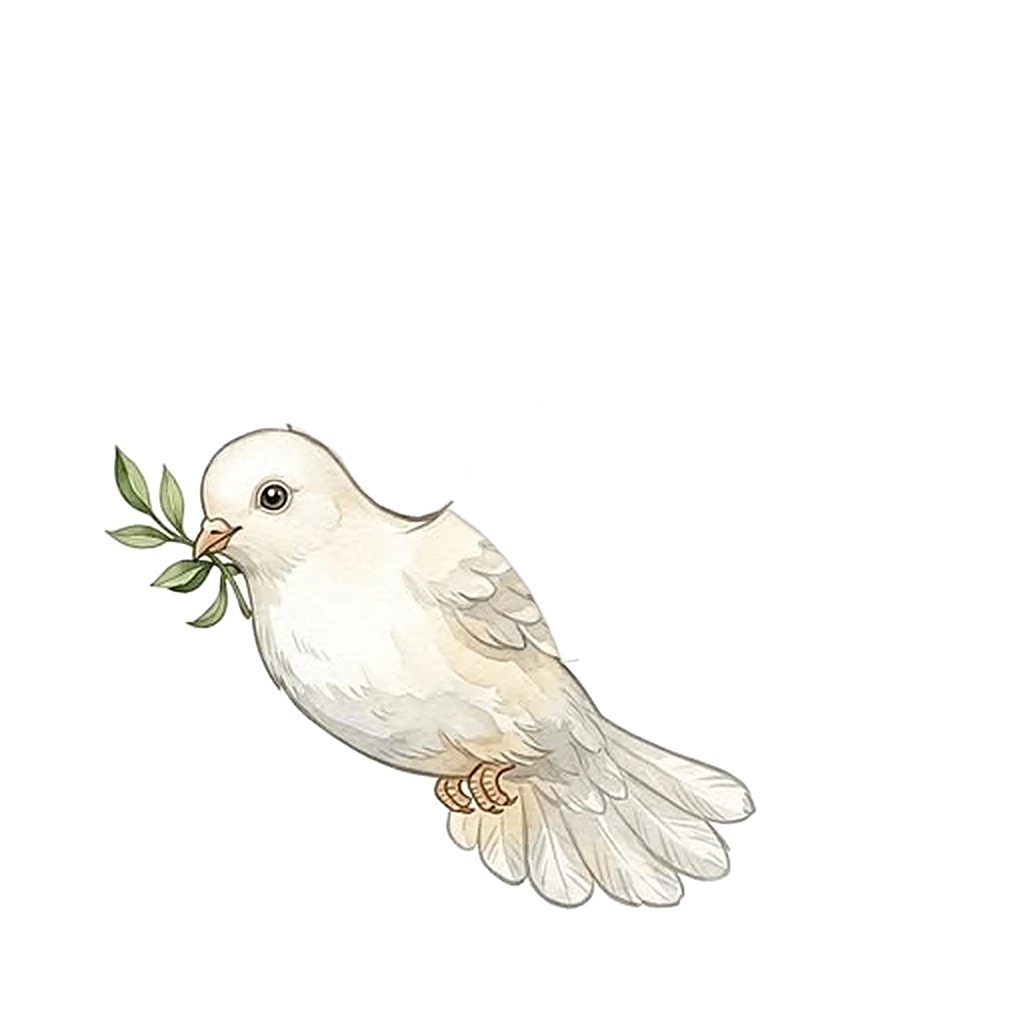
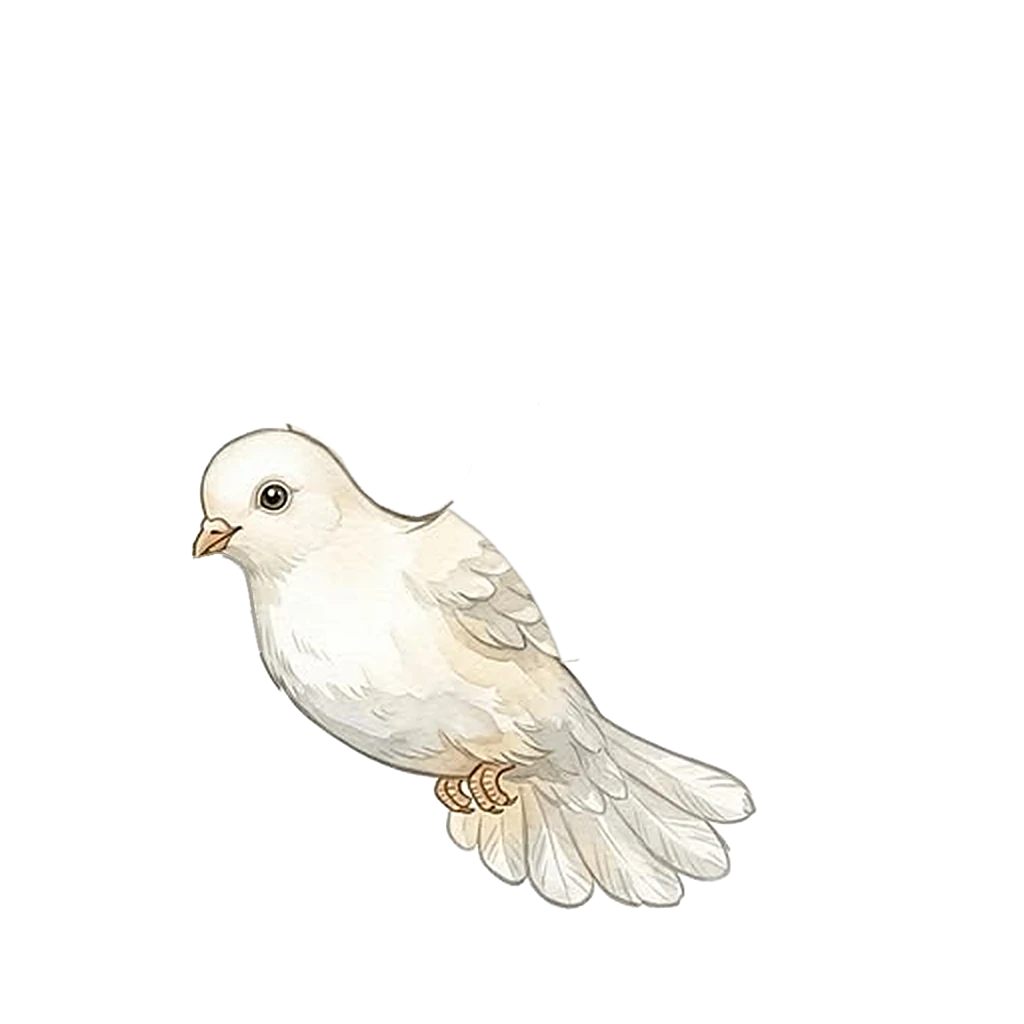
Let the dove grip the card in its feet
Paint the olive branch out of the dove illustration and carry the card
by its top edge instead of a ribbon, so the bird sits centred above the
card. Remove the ribbon, bow and knots.

Changed region(s): [[0.0938, 0.4375, 0.25, 0.625]]

diff --git a/src/components/scratch/DoveDelivery.js b/src/components/scratch/DoveDelivery.js
@@ -59,40 +59,9 @@ function Dove({ effort, flying, onPrepared }) {
   return <canvas ref={canvas} className={styles.doveCanvas} aria-hidden="true" />;
 }
 
-/** Gold satin ribbon from the dove's beak down to the card's top corners. */
-function Ribbon() {
-  return (
-    <svg className={styles.ribbon} viewBox="0 0 100 100" preserveAspectRatio="none" aria-hidden="true">
-      <path className={styles.ribbonEdge} d="M7 100L50 0l43 100" />
-      <path className={styles.ribbonSheen} d="M7 100L50 0l43 100" />
-    </svg>
-  );
-}
-
-function Bow() {
-  return (
-    <svg className={styles.bow} viewBox="0 0 64 44" aria-hidden="true">
-      <defs>
-        <linearGradient id="bow-satin" x1="0" y1="0" x2="1" y2="1">
-          <stop offset="0" stopColor="#f1e2b6" />
-          <stop offset="0.5" stopColor="#d2b163" />
-          <stop offset="1" stopColor="#a98438" />
-        </linearGradient>
-      </defs>
-      <g fill="url(#bow-satin)" stroke="#94722c" strokeWidth="0.8" strokeLinejoin="round">
-        <path d="M30 15 19 41l6-3 3 5 5-26z" />
-        <path d="m34 15 11 26-6-3-3 5-5-26z" />
-        <path d="M30 13C22 3 7 1 5 8s13 12 25 8z" />
-        <path d="M34 13c8-10 23-12 25-5s-13 12-25 8z" />
-        <rect x="27.5" y="10" width="9" height="9" rx="3" />
-      </g>
-    </svg>
-  );
-}
-
 /**
- * Wraps the scratch card: when it scrolls into view, a dove flies in holding
- * the card by a ribbon, sets it down, lets go and flies away. `children` is a
+ * Wraps the scratch card: when it scrolls into view, a dove flies in gripping
+ * the card in its feet, sets it down, lets go and flies away. `children` is a
  * render function receiving `ready` (true once the card has landed).
  */
 export default function DoveDelivery({ children }) {
@@ -113,11 +82,11 @@ export default function DoveDelivery({ children }) {
   // Arrives from the distance, growing as it comes.
   const scale = useTransform(progress, [0, 1], [0.8, 1]);
   // Negative tips the beak down. It flares nose-up just before setting the card down.
-  const pitch = useTransform(progress, [0, 0.3, 0.65, 0.88, 1], [-22, -13, -6, 6, 0]);
+  const pitch = useTransform(progress, [0, 0.3, 0.65, 0.88, 1], [-16, -10, -4, 5, 0]);
   // Flaps in, glides, then beats hard to brake.
   const effort = useTransform(progress, [0, 0.45, 0.6, 0.8, 0.92, 1], [1, 1, 0.1, 0.1, 0.9, 1]);
-  // The card trails behind the bird like a pendulum, settling as it lands.
-  const swing = useTransform(progress, (p) => -15 * (1 - p) ** 1.4 * Math.cos(p * Math.PI * 3.2));
+  // The card sways from the dove's feet, settling as it lands.
+  const swing = useTransform(progress, (p) => -9 * (1 - p) ** 1.4 * Math.cos(p * Math.PI * 3.2));
 
   useEffect(() => {
     if (reduced) {
@@ -165,7 +134,7 @@ export default function DoveDelivery({ children }) {
               landed
                 ? {
                     x: ['0vw', '1vw', '-11vw', '-62vw'],
-                    y: ['0vh', '1vh', '-8vh', '-72vh'],
+                    y: ['0vh', '-1vh', '-9vh', '-72vh'],
                     rotate: [0, -3, 10, 18],
                     scale: [1, 1, 0.94, 0.68],
                     opacity: [1, 1, 1, 0],
@@ -186,19 +155,6 @@ export default function DoveDelivery({ children }) {
         )}
 
         <motion.div className={styles.hanging} style={{ rotate: swing }}>
-          {airborne && (
-            <motion.div
-              className={styles.ribbonWrap}
-              initial={false}
-              animate={landed ? { opacity: 0, y: 16 } : { opacity: 1, y: 0 }}
-              transition={{ duration: 0.6, delay: landed ? LEAVE_DELAY + 0.1 : 0, ease: 'easeIn' }}
-            >
-              <Ribbon />
-              <Bow />
-              <span className={`${styles.knot} ${styles.knotLeft}`} />
-              <span className={`${styles.knot} ${styles.knotRight}`} />
-            </motion.div>
-          )}
           {children(landed || phase === 'done')}
         </motion.div>
       </motion.div>

diff --git a/src/components/scratch/DoveDelivery.module.css b/src/components/scratch/DoveDelivery.module.css
@@ -1,94 +1,29 @@
 .delivery {
-  --ribbon: clamp(62px, 8vw, 92px);
   --dove: clamp(190px, 25vw, 320px);
+  /* room above the card for the dove as it arrives */
+  --lift: calc(var(--dove) * 0.55);
   position: relative;
   /* Holds the dove below the section title, even once the card stops moving. */
   isolation: isolate;
-  /* room above the card for the ribbon and dove as they arrive */
-  padding-top: calc(var(--ribbon) + var(--dove) * 0.26);
-  margin-top: calc((var(--ribbon) + var(--dove) * 0.26) * -0.7);
+  padding-top: var(--lift);
+  margin-top: calc(var(--lift) * -0.7);
 }
 
 .carrier {
   position: relative;
 }
 
+/* The card sways from the point where the dove grips it. */
 .hanging {
   position: relative;
-  transform-origin: 50% calc(var(--ribbon) * -1);
+  transform-origin: 50% 0;
 }
 
-/* Ribbon spans from the beak (apex) to the card's top corners. */
-.ribbonWrap {
-  position: absolute;
-  left: 50%;
-  top: calc(var(--ribbon) * -1);
-  width: min(100%, 560px);
-  height: var(--ribbon);
-  translate: -50% 0;
-  pointer-events: none;
-}
-
-.ribbon {
-  position: absolute;
-  inset: 0;
-  width: 100%;
-  height: 100%;
-  overflow: visible;
-}
-
-.ribbonEdge,
-.ribbonSheen {
-  fill: none;
-  stroke-linejoin: round;
-  vector-effect: non-scaling-stroke;
-}
-
-.ribbonEdge {
-  stroke: #a98438;
-  stroke-width: 3.2px;
-}
-
-.ribbonSheen {
-  stroke: #efe0b0;
-  stroke-width: 1.1px;
-}
-
-/* The bow's knot sits at the ribbon's apex, under the beak. */
-.bow {
-  position: absolute;
-  left: 50%;
-  top: 0;
-  width: clamp(40px, 5vw, 54px);
-  height: auto;
-  translate: -50% -33%;
-  overflow: visible;
-}
-
-.knot {
-  position: absolute;
-  bottom: -4px;
-  width: 9px;
-  height: 9px;
-  margin-left: -4.5px;
-  border-radius: 50%;
-  background: radial-gradient(circle at 35% 30%, #f1e2b6, #a4843f);
-  box-shadow: 0 1px 2px rgba(53, 43, 43, 0.3);
-}
-
-.knotLeft {
-  left: 7%;
-}
-
-.knotRight {
-  left: 93%;
-}
-
-/* The picture's beak sits on the ribbon's apex, at 21.9% across and 53.5% down. */
+/* The dove's feet sit on the card's top edge, at 46.3% across and 77.3% down the picture. */
 .dove {
   position: absolute;
-  left: calc(50% - var(--dove) * 0.219);
-  top: calc(var(--ribbon) * -1 - var(--dove) * 0.535);
+  left: calc(50% - var(--dove) * 0.463);
+  top: calc(var(--dove) * -0.773);
   width: var(--dove);
   aspect-ratio: 1;
   z-index: 2;
@@ -97,7 +32,7 @@
 
 .dove,
 .pitch {
-  transform-origin: 21.9% 53.5%;
+  transform-origin: 46.3% 77.3%;
 }
 
 .pitch {
